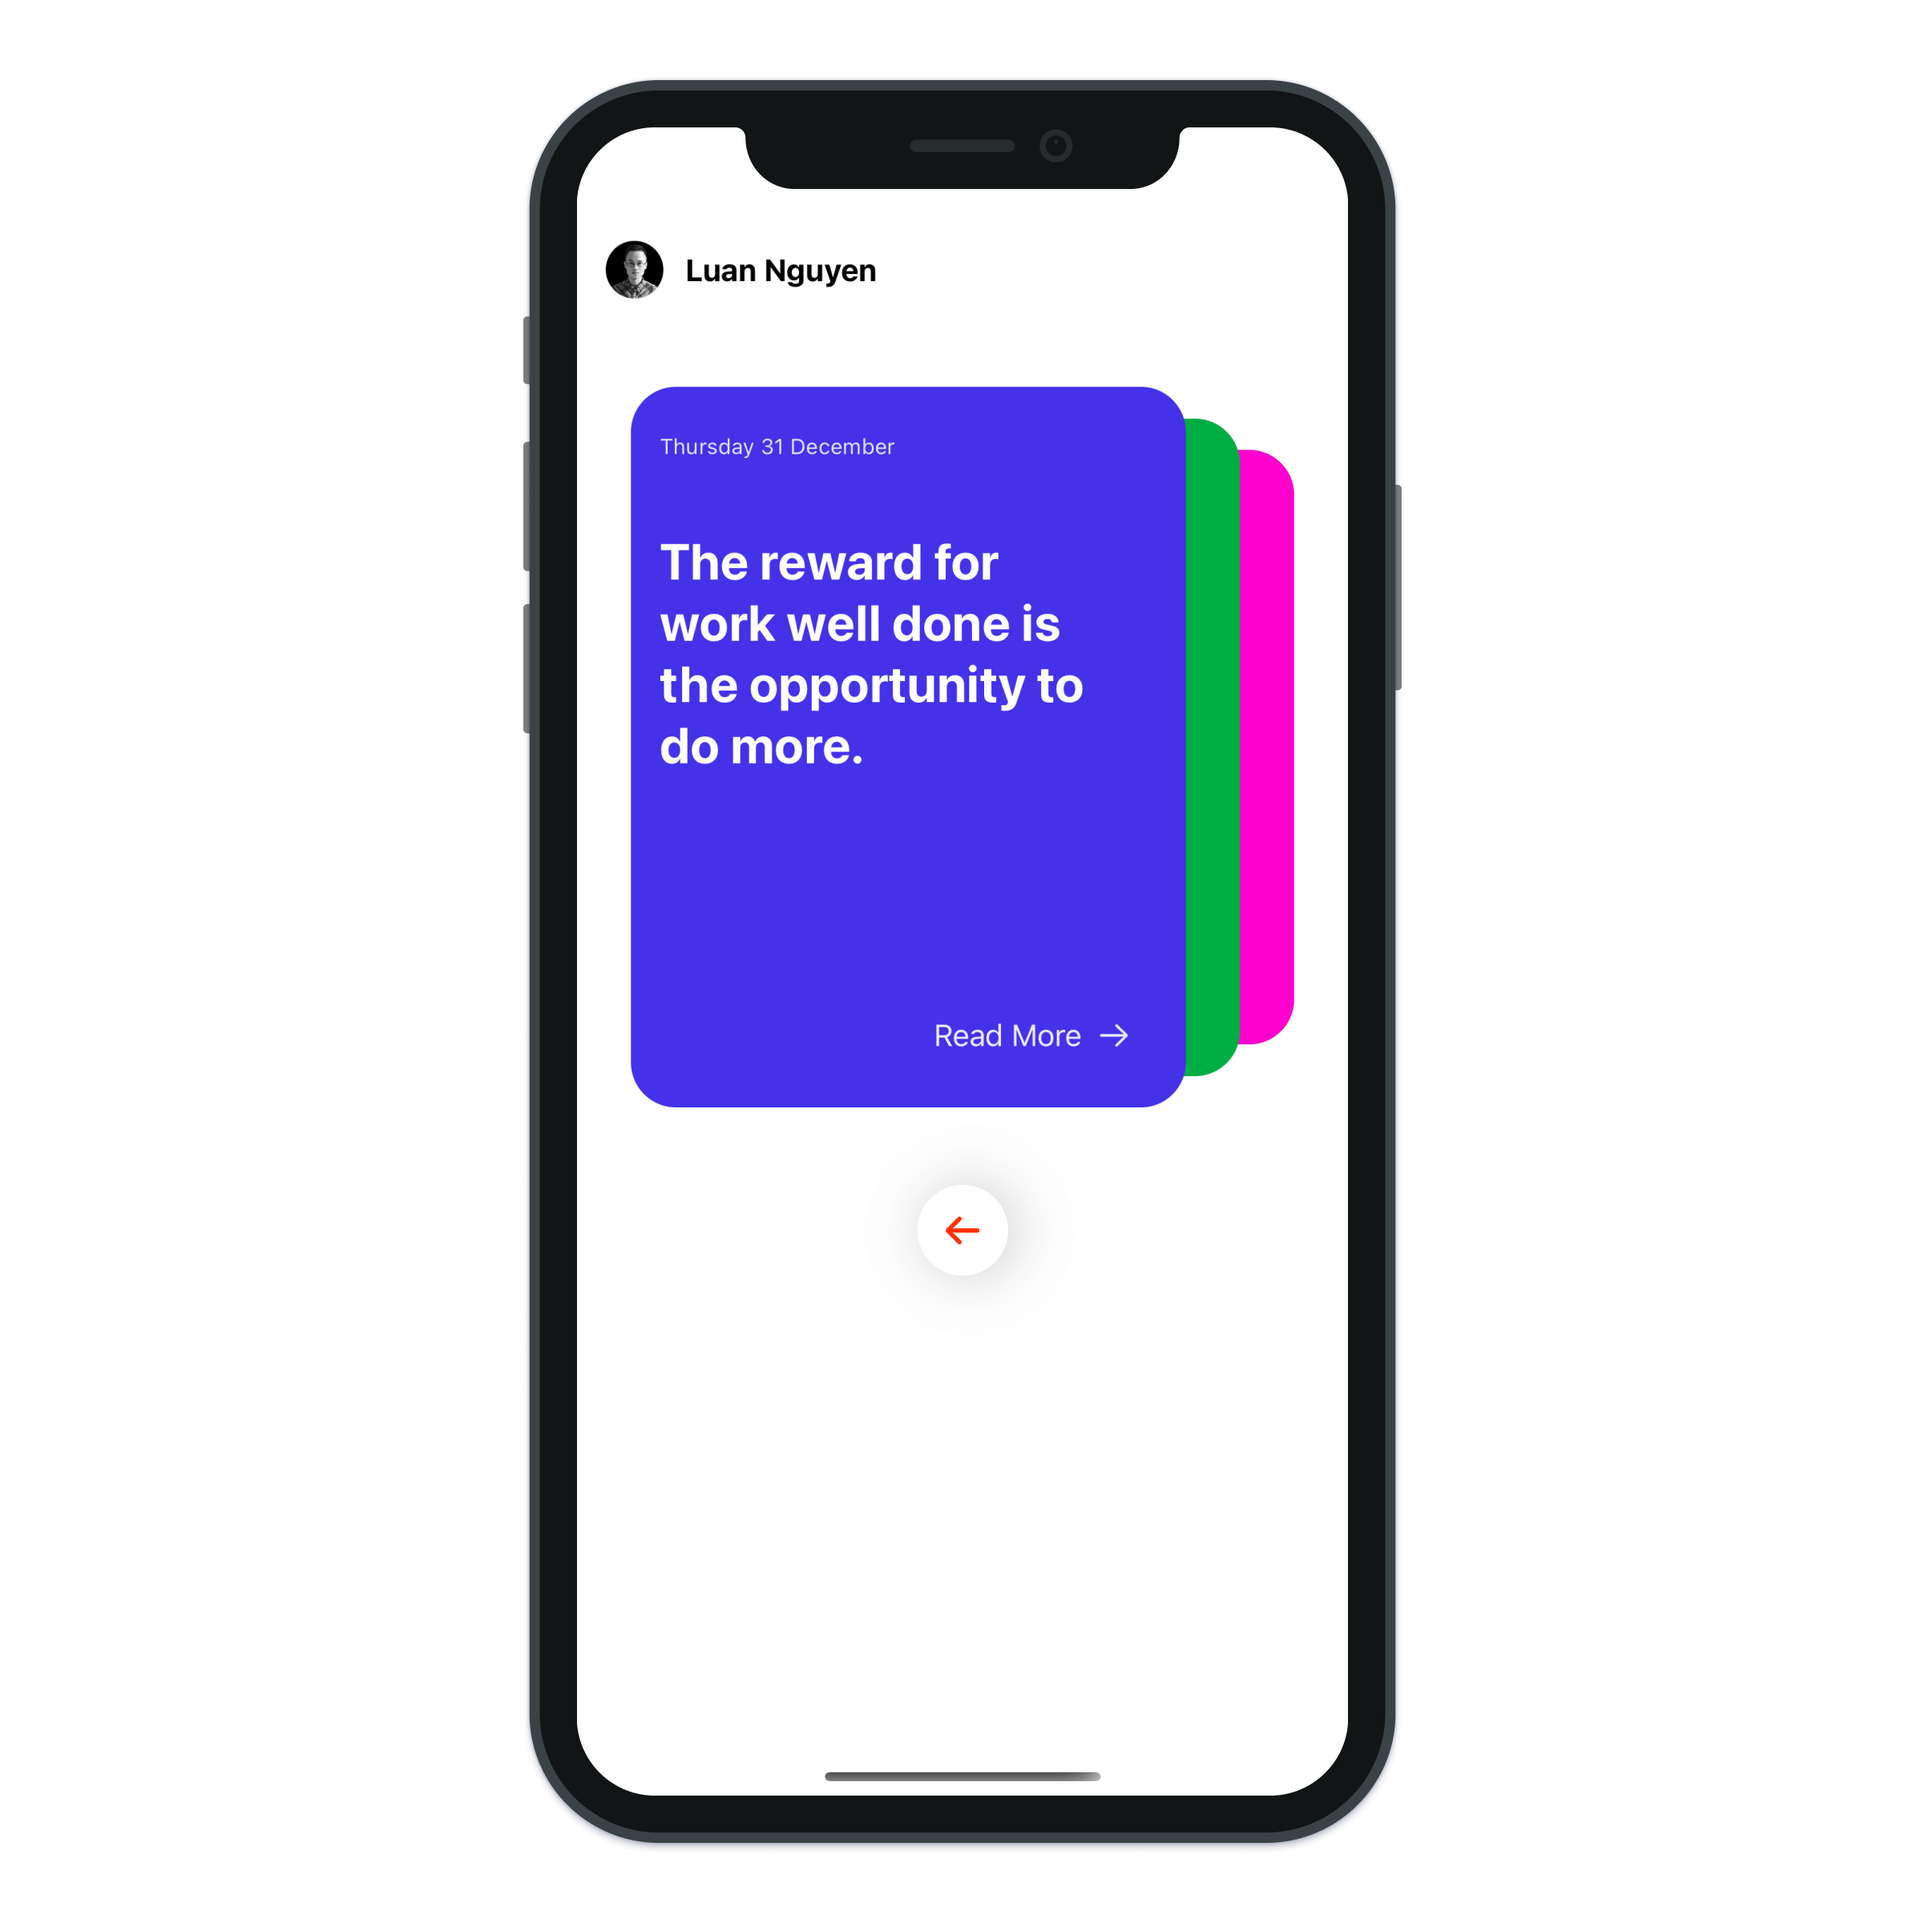
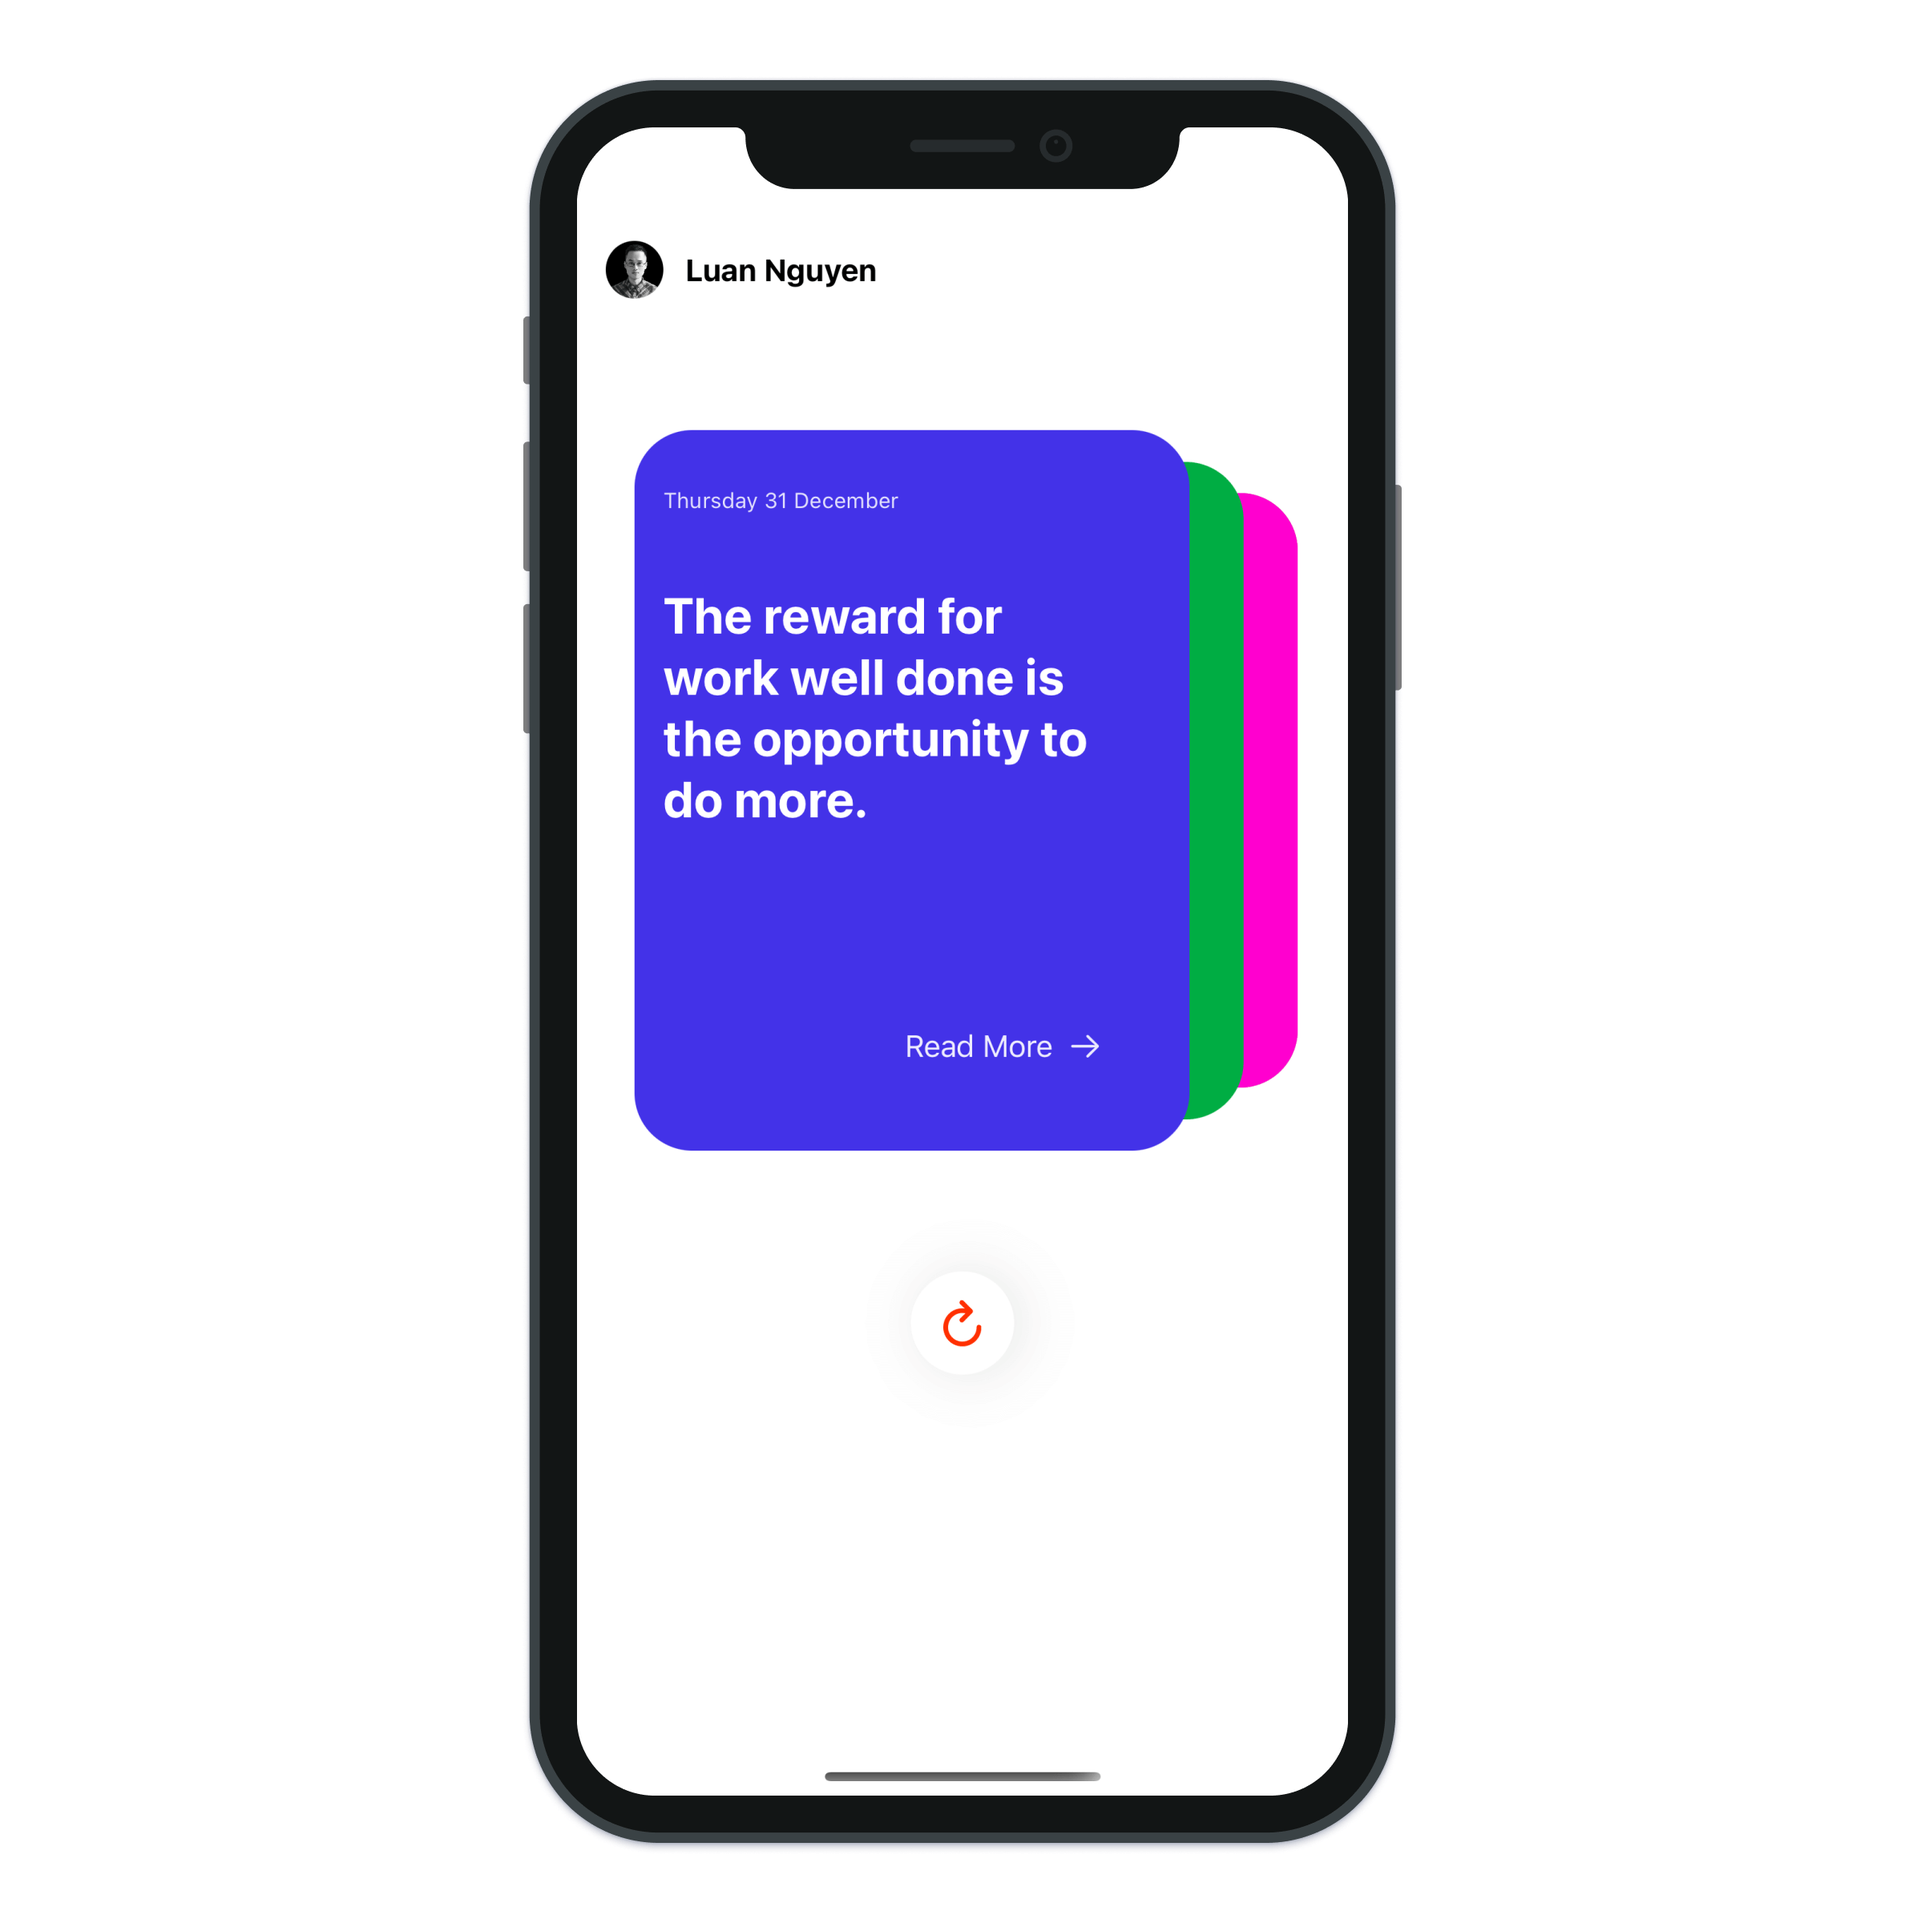
SwiftUI Hero Carousel Slider

Changed region(s): [[0.3122, 0.1875, 0.6869, 0.4375], [0.3122, 0.5312, 0.6869, 0.625]]

diff --git a/SwiftUIHeroCarouselSlider/SwiftUIHeroCarouselSlider/View/Home.swift b/SwiftUIHeroCarouselSlider/SwiftUIHeroCarouselSlider/View/Home.swift
@@ -29,7 +29,7 @@ struct Home: View {
                             
                             Text("Luan Nguyen")
                                 .fontWeight(.bold)
-                                .foregroundColor(.black)
+                                .foregroundColor(Color("text"))
                                 .padding(.leading, 4)
                         }
                     })
@@ -49,7 +49,7 @@ struct Home: View {
                             
                             Spacer(minLength: 0)
                         } //: HSTACK
-                        .frame(height: 400)
+                        .frame(height: 450)
                         .contentShape(Rectangle())
                         .offset(x: model.cards[index].offset)
                         .gesture(DragGesture(minimumDistance: 0)
@@ -60,19 +60,19 @@ struct Home: View {
                                     }))
                     }
                 } //: ZSTACK
-                .padding(.top, 25)
-                .padding(.horizontal, 30)
+                .padding(.top, 24)
+                .padding(.horizontal, 32)
                 
                 Button(action: ResetViews, label: {
-                    Image(systemName: "arrow.left")
-                        .font(.system(size: 20, weight: .semibold))
+                    Image(systemName: "arrow.clockwise")
+                        .font(.system(size: 24, weight: .semibold))
                         .foregroundColor(Color("AccentColor"))
                         .padding()
                         .background(Color.white)
                         .clipShape(Circle())
-                        .shadow(color: Color.black.opacity(0.2), radius: 16, x: 4, y: 0)
+                        .shadow(color: Color.black.opacity(0.1), radius: 16, x: 4, y: 0)
                 })
-                .padding(.top, 35)
+                .padding(.top, 32)
                 
                 Spacer()
             } //: VSTACK

diff --git a/SwiftUIHeroCarouselSlider/SwiftUIHeroCarouselSlider/View/DetailView.swift b/SwiftUIHeroCarouselSlider/SwiftUIHeroCarouselSlider/View/DetailView.swift
@@ -60,16 +60,16 @@ struct DetailView: View {
                 
                 if model.showContent {
                     Button(action: CloseView, label: {
-                        Image(systemName: "arrow.down")
-                            .font(.system(size: 20, weight: .semibold))
-                            .foregroundColor(.blue)
+                        Image(systemName: "xmark")
+                            .font(.system(size: 24, weight: .semibold))
+                            .foregroundColor(model.selectedCard.cardColor)
                             .padding()
-                            .background(Color.white.opacity(0.6))
+                            .background(Color.white.opacity(0.9))
                             .clipShape(Circle())
-                            .padding(5)
-                            .background(Color.white.opacity(0.7))
+                            .padding(4)
+                            .background(Color.white.opacity(0.5))
                             .clipShape(Circle())
-                            .shadow(radius: 3)
+                            .shadow(color: Color.black.opacity(0.1), radius: 16, x: 4, y: 0)
                     })
                     .padding(.bottom)
                 }

diff --git a/SwiftUIHeroCarouselSlider/SwiftUIHeroCarouselSlider/View/CardView.swift b/SwiftUIHeroCarouselSlider/SwiftUIHeroCarouselSlider/View/CardView.swift
@@ -19,7 +19,7 @@ struct CardView: View {
                 .foregroundColor(Color.white.opacity(0.85))
                 .frame(maxWidth: .infinity,alignment: .leading)
                 .padding()
-                .padding(.top,10)
+                .padding(.top, 16)
                 .matchedGeometryEffect(id: "Date-\(card.id)", in: animation)
             
             HStack {
@@ -45,12 +45,12 @@ struct CardView: View {
                 }
             } //: HSTACK
             .foregroundColor(Color.white.opacity(0.9))
-            .padding(30)
+            .padding(48)
         } //: VSTACK
         .frame(maxWidth: .infinity, maxHeight: .infinity)
         .background(
             card.cardColor
-                .cornerRadius(25)
+                .cornerRadius(32)
                 .matchedGeometryEffect(id: "bgColor-\(card.id)", in: animation)
         ) //: BACKGROUND
         .onTapGesture {

diff --git a/SwiftUIHeroCarouselSlider/README.md b/SwiftUIHeroCarouselSlider/README.md
@@ -8,6 +8,4 @@
 
 ![SwiftUI Hero Carousel Slider 4](./SwiftUIHeroCarouselSlider_4.png "SwiftUI Hero Carousel Slider 4")
 
-![SwiftUI Hero Carousel Slider 5](./SwiftUIHeroCarouselSlider_5.png "SwiftUI Hero Carousel Slider 5")
-
 ---
